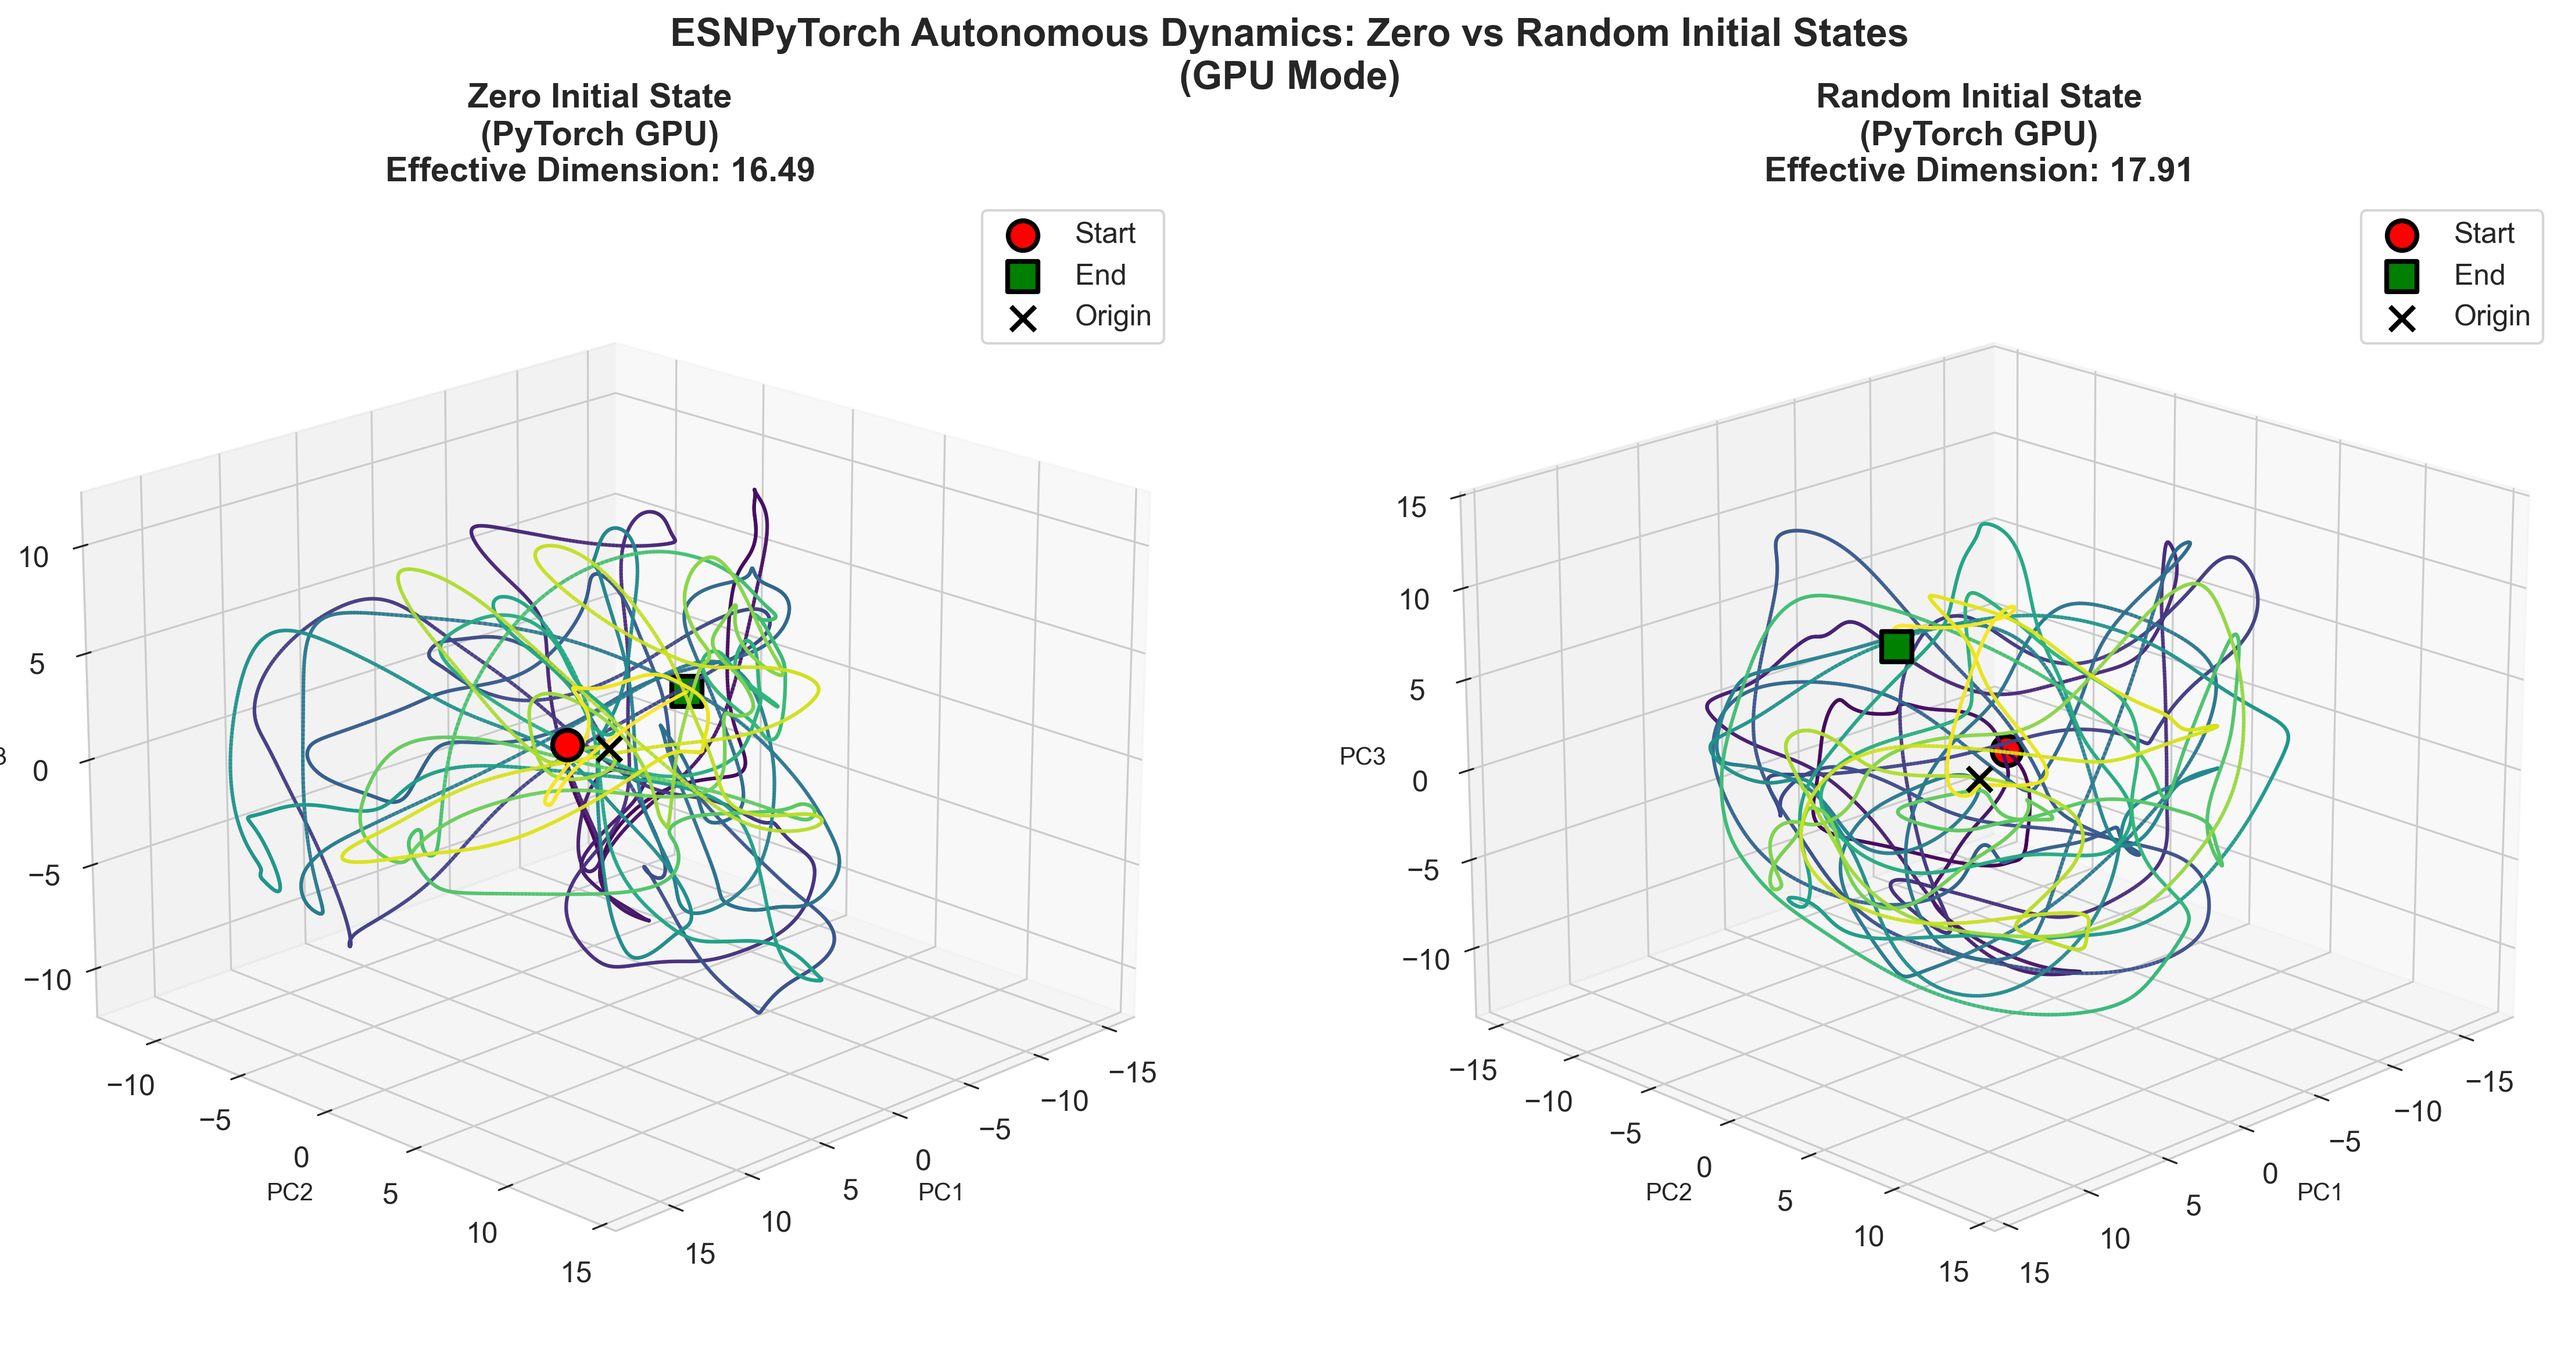
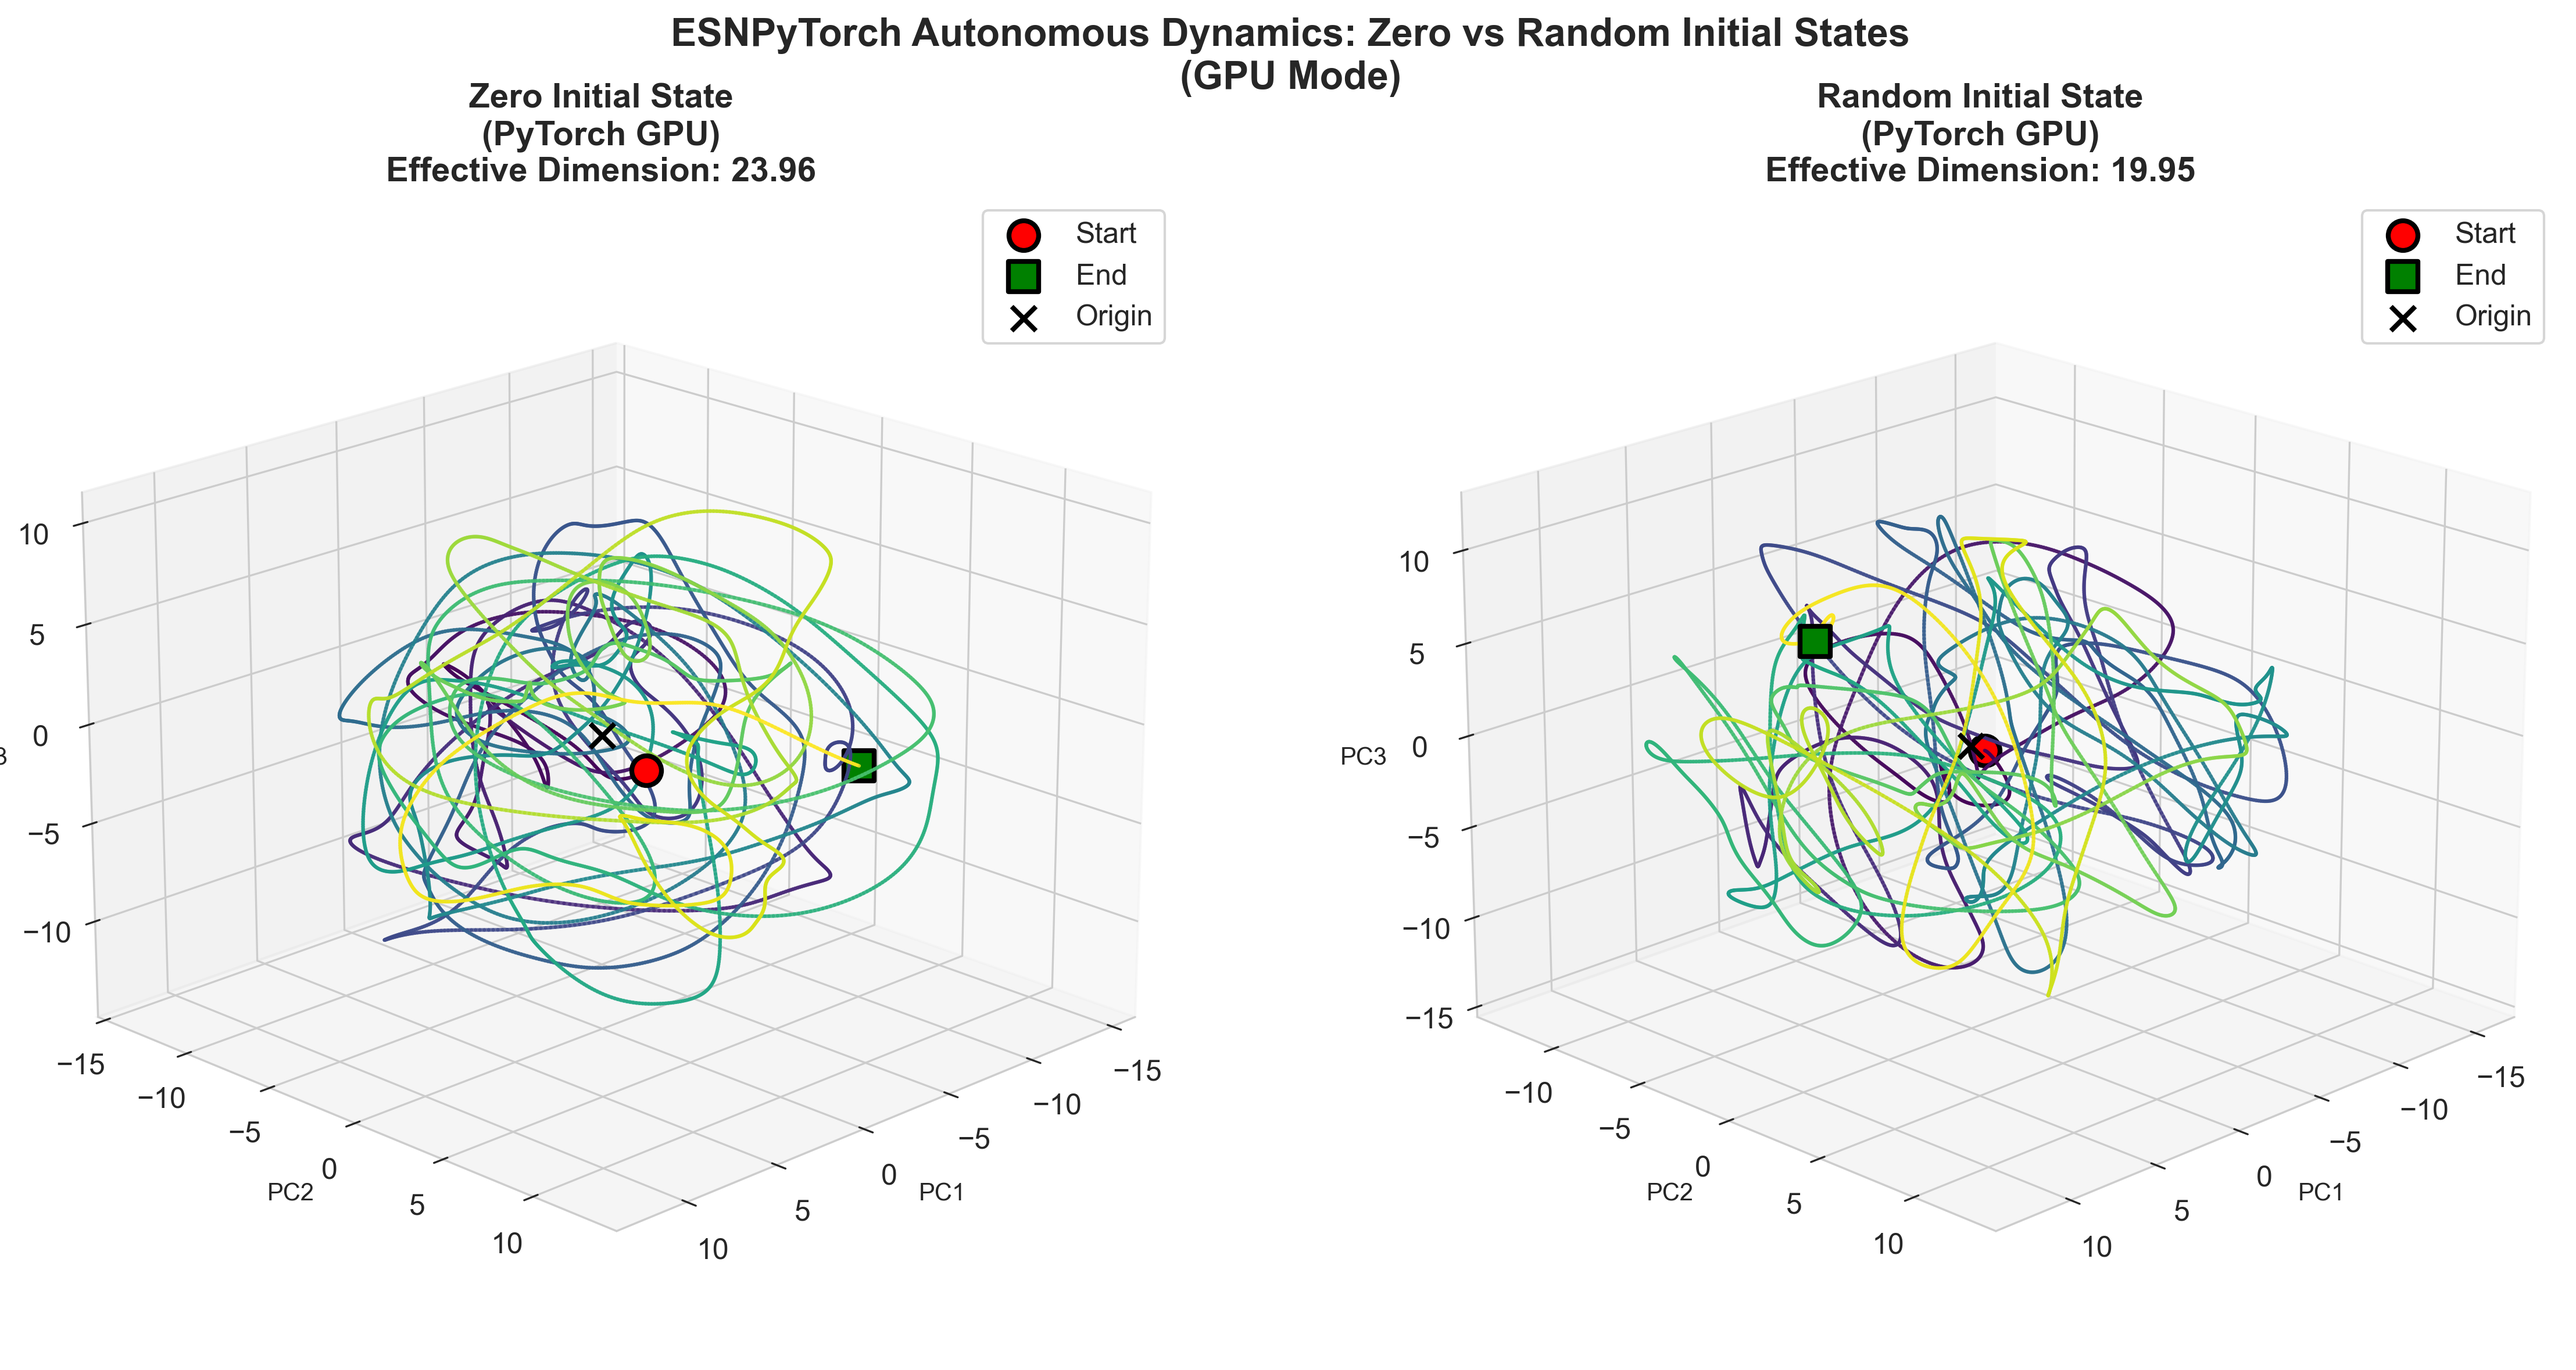
update: Add latest autonomous dynamics visualization and refined bias initialization
- Updated esn_pytorch_autonomous_dynamics.png with latest high-dimensional chaotic dynamics results
- Final refinement to esn_pytorch_dynamics_demo.py ensuring ReservoirPy bias initialization compatibility
- Verified consistent high-dimensional complexity (effective dimensionality ~17-19)

diff --git a/ESN_experiments/esn_pytorch_dynamics_demo.py b/ESN_experiments/esn_pytorch_dynamics_demo.py
@@ -102,17 +102,19 @@ class ESNPyTorch(nn.Module):
         
         self.Win = torch.tensor(Win_np, dtype=self.dtype, device=device)
         
-        # 初始化偏置 - 使用bernoulli分布（与ReservoirPy一致）
-        # ReservoirPy默认: bias = bernoulli (±1, p=0.5)
-        # 关键修正：bias需要应用input_connectivity，这是ReservoirPy的行为！
+        # 初始化偏置 - 完全按照ReservoirPy源码logic
+        # ReservoirPy源码：bias_init(units, 1, input_scaling=bias_scaling, connectivity=input_connectivity)
+        # 注意：ReservoirPy使用bias_scaling作为input_scaling参数传递给bias_init
+        bias_scaling = 1.0  # ReservoirPy默认值
+        
+        # 生成bernoulli分布的bias
         bias_full = self._bernoulli_matrix(self.reservoir_size, 1, p=0.5)
         
-        # 应用input_connectivity到bias（这是ReservoirPy的默认行为）
+        # 应用input_connectivity稀疏化（ReservoirPy源码行为）
         mask_bias = np.random.rand(self.reservoir_size, 1) < self.input_connectivity
         bias_np = bias_full * mask_bias
         
-        # 应用bias_scaling（ReservoirPy默认为1.0）
-        bias_scaling = 1.0  # ReservoirPy默认值
+        # 应用bias_scaling（作为ReservoirPy的input_scaling参数）
         bias_np = bias_np * bias_scaling
         
         self.bias = torch.tensor(bias_np, dtype=self.dtype, device=device)
